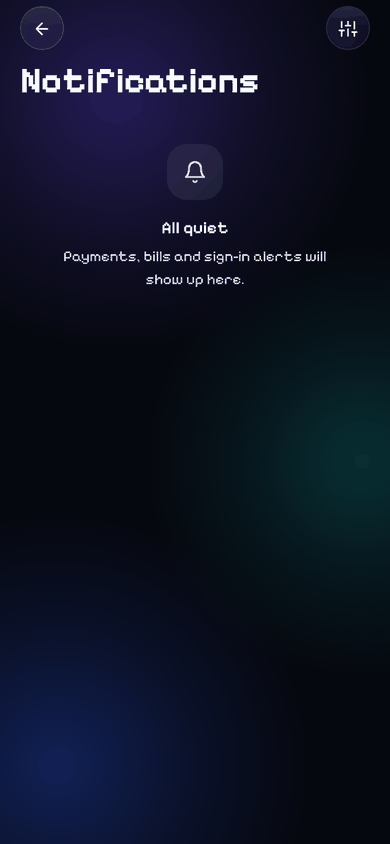
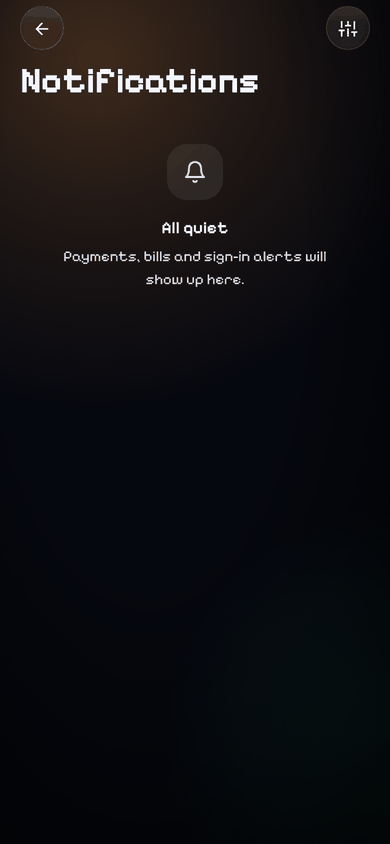
Docs: 3D design rules and refreshed screenshots
Claude-Session: https://claude.ai/code/session_01DR2G8W8cb4NoapMJ4FCSqj

diff --git a/docs/design/DESIGN.md b/docs/design/DESIGN.md
@@ -23,12 +23,24 @@
 
 The look is dark glassmorphism ("liquid glass"): frosted surfaces floating over one aurora. Glass goes wrong when it costs legibility or hides state, so it follows rules:
 
-- **One backdrop, rendered once.** `Backdrop` (kit.tsx) paints three soft light pools on near-black behind the navigator. Screens and navigators are transparent; nothing paints its own gradient. Transitions fade, so two transparent screens never overlap mid-slide.
+- **One backdrop, rendered once.** `Backdrop` (kit.tsx) paints the lit scene behind the navigator: a warm copper key light from the top left, a verdigris bounce from the bottom right and a vignette into the floor. Screens and navigators are transparent; nothing paints its own gradient. Transitions fade, so two transparent screens never overlap mid-slide.
 - **Glass is a fill, not a filter on text.** `Glass` adds the backdrop blur (expo-blur on iOS and web; Android gets the translucent tint, because its blur is experimental and costly), the tint and a sheen across the top edge. Text always sits on top of it, never inside a blur.
-- **Contrast is checked against the brightest spot.** Every text colour meets WCAG AA (4.5:1) over the brightest aurora pool seen through glass, not just over the base colour. The lowest pair is 5.3:1.
+- **Contrast is checked against the brightest spot.** Every text colour meets WCAG AA (4.5:1) over the brightest part of the key light seen through glass, not just over the base colour. The lowest pair is 4.6:1.
 - **Some surfaces must not be glass.** The app lock is opaque (it exists to hide the app). The reward toast and payment receipts use fixed smoked or deep tints so they stay readable over anything.
 - **States never rely on colour.** Paid, waiting, held and failed each have their own icon and title as well as their tint.
 - **Pixel type, one family.** Pixelify Sans everywhere. Weight carries the hierarchy (700 amounts, 600 headings, 500 labels, 400 reading), sizes sit a step below the usual scale because pixel letters run wide, and line heights are generous.
+
+## 3D, and not looking machine-made
+
+Generated interfaces share tells: purple-to-blue gradients, glowing orbs with no light source, sparkles, stock 3D blobs, every block the same card. CoinQuest's depth comes from one physical idea instead: **a copper coin on a desk, lit by one lamp.**
+
+- **One light, everywhere.** The key light sits up and to the left (`KEY_LIGHT` in `src/ui/three/voxel.ts`). The backdrop's warm pool, the voxel shading, the shadow falling down and to the right, the glare on tilting cards and the bright top edge of every keycap all come from that direction. Nothing glows on its own.
+- **Materials, not gradients.** Copper for the coin, and verdigris (copper's own patina) for the mint accent and the backdrop's bounce light. The palette has a reason.
+- **Our own 3D objects, in our own pixels.** `meshFromSprite` extrudes pixel art into voxels: the coin (13×13, with an embossed ₹ that stands off the face) and the padlock on the lock screen. Each is a sprite you can read in `src/ui/three/models.ts`. They're drawn with react-native-svg (painter's order, back faces culled), so there's no three.js and no GL context, and they run in Expo Go, on web and on native.
+- **3D only where it means something.** The coin appears where coins are: sign-in (the brand), Rewards (big; drag to spin it) and the receipt (a small coin lands when you earn some). The padlock is on the lock screen. Money screens stay flat and still.
+- **Physical, small movements.** The balance and debt-plan cards tilt up to 6° with the phone (DeviceMotion, re-centred to your grip) or the pointer on web, with a glare from the key light. Quick actions and PIN digits are keycaps that travel down when pressed. Function keys stay flat, so digits stand out.
+- **Restraint.** No confetti, sparkles or particles. Models pause when their screen isn't in front. With Reduce Motion on, coins hold a still three-quarter view and cards don't tilt.
+- **Uneven on purpose.** The sign-in coin sits off-centre by the headline; the Rewards coin sits beside the number rather than above it.
 
 ## Tokens
 
@@ -47,7 +59,8 @@ Dark is the default; a frosted light variant swaps the same tokens (light glass 
 | `primary` / `onPrimary` | `#EEF1F8` / `#0A0D16` | Bright liquid primary buttons |
 | `gold` | `#8CF0D2` | The mint accent: progress, rings, rewards, Scan. Text on it is `ON_ACCENT` |
 | `green` / `red` / `blue` / `amber` | luminous tints, each with a 15% "soft" fill | Money in / problems / links / warnings |
-| `aurora` | `#6B4DFF`, `#0B8F8E`, `#2D5BFF` | The backdrop's light pools (30% at the centre) |
+| `aurora` | `#C27A3A`, `#1F7A68`, `#000000` | Key light (copper), bounce (verdigris), floor vignette |
+| `keyCap` / `keySide` | `#1B202C` / `#090C13` | Keycap face and the side showing below it |
 
 Payment receipts sit on deep tints with white text (7:1 or better): Paid `#0C3A2C`, Waiting `#18203A`, On hold `#3A2C0E`, Failed `#3E1419`, each with its own icon (tick, clock, pause, cross) and title.
 

diff --git a/README.md b/README.md
@@ -9,7 +9,7 @@
 
 Good money habits earn coins, XP, streaks and badges.
 
-The look is dark glassmorphism: frosted glass surfaces over a soft aurora, with Pixelify Sans throughout (a ₹ sign was drawn for it) and a single mint accent. A frosted light mode is one tap away. The design benchmarks Google Pay, PhonePe, Paytm, CRED, 1% Club and the Safyre wallet concept. [docs/design/DESIGN.md](docs/design/DESIGN.md) covers what we took from each app, the design principles and the tokens. [docs/COMPLIANCE.md](docs/COMPLIANCE.md) covers security, compliance and reliability: what's done, what needs infrastructure, and what needs legal or business work.
+The look is dark glassmorphism lit like a real scene: frosted glass under one warm key light, a 3D voxel copper coin you can spin, cards that tilt with your phone, and keycap buttons, all in Pixelify Sans (a ₹ sign was drawn for it). A frosted light mode is one tap away. The design benchmarks Google Pay, PhonePe, Paytm, CRED, 1% Club and the Safyre wallet concept. [docs/design/DESIGN.md](docs/design/DESIGN.md) covers what we took from each app, the design principles and the tokens. [docs/COMPLIANCE.md](docs/COMPLIANCE.md) covers security, compliance and reliability: what's done, what needs infrastructure, and what needs legal or business work.
 
 | Sign in | Home | Pay | Paid |
 |---|---|---|---|
